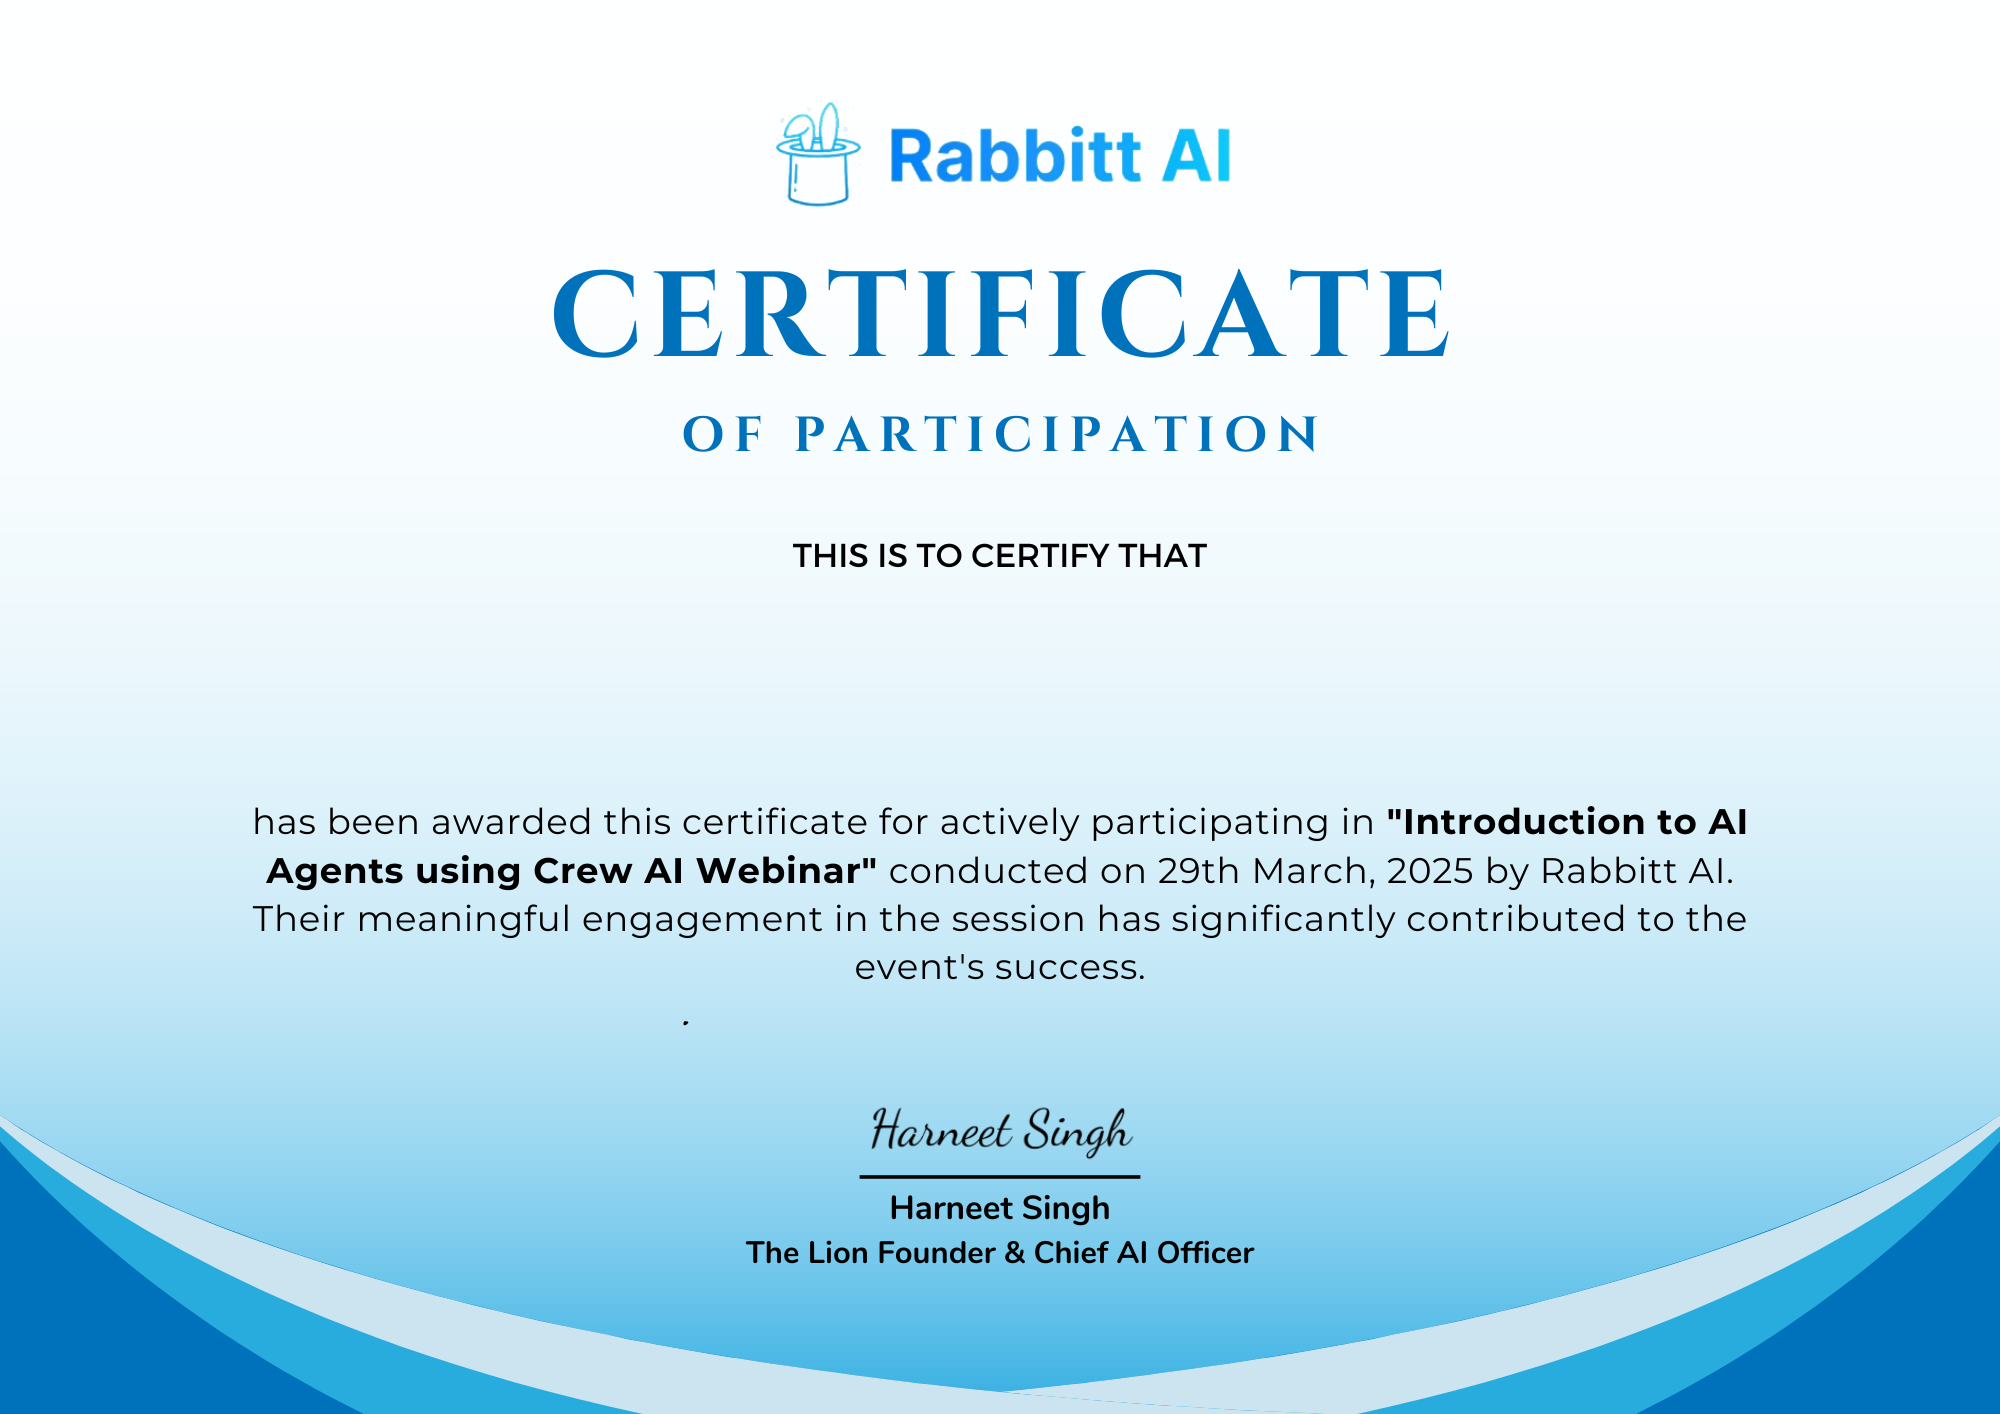
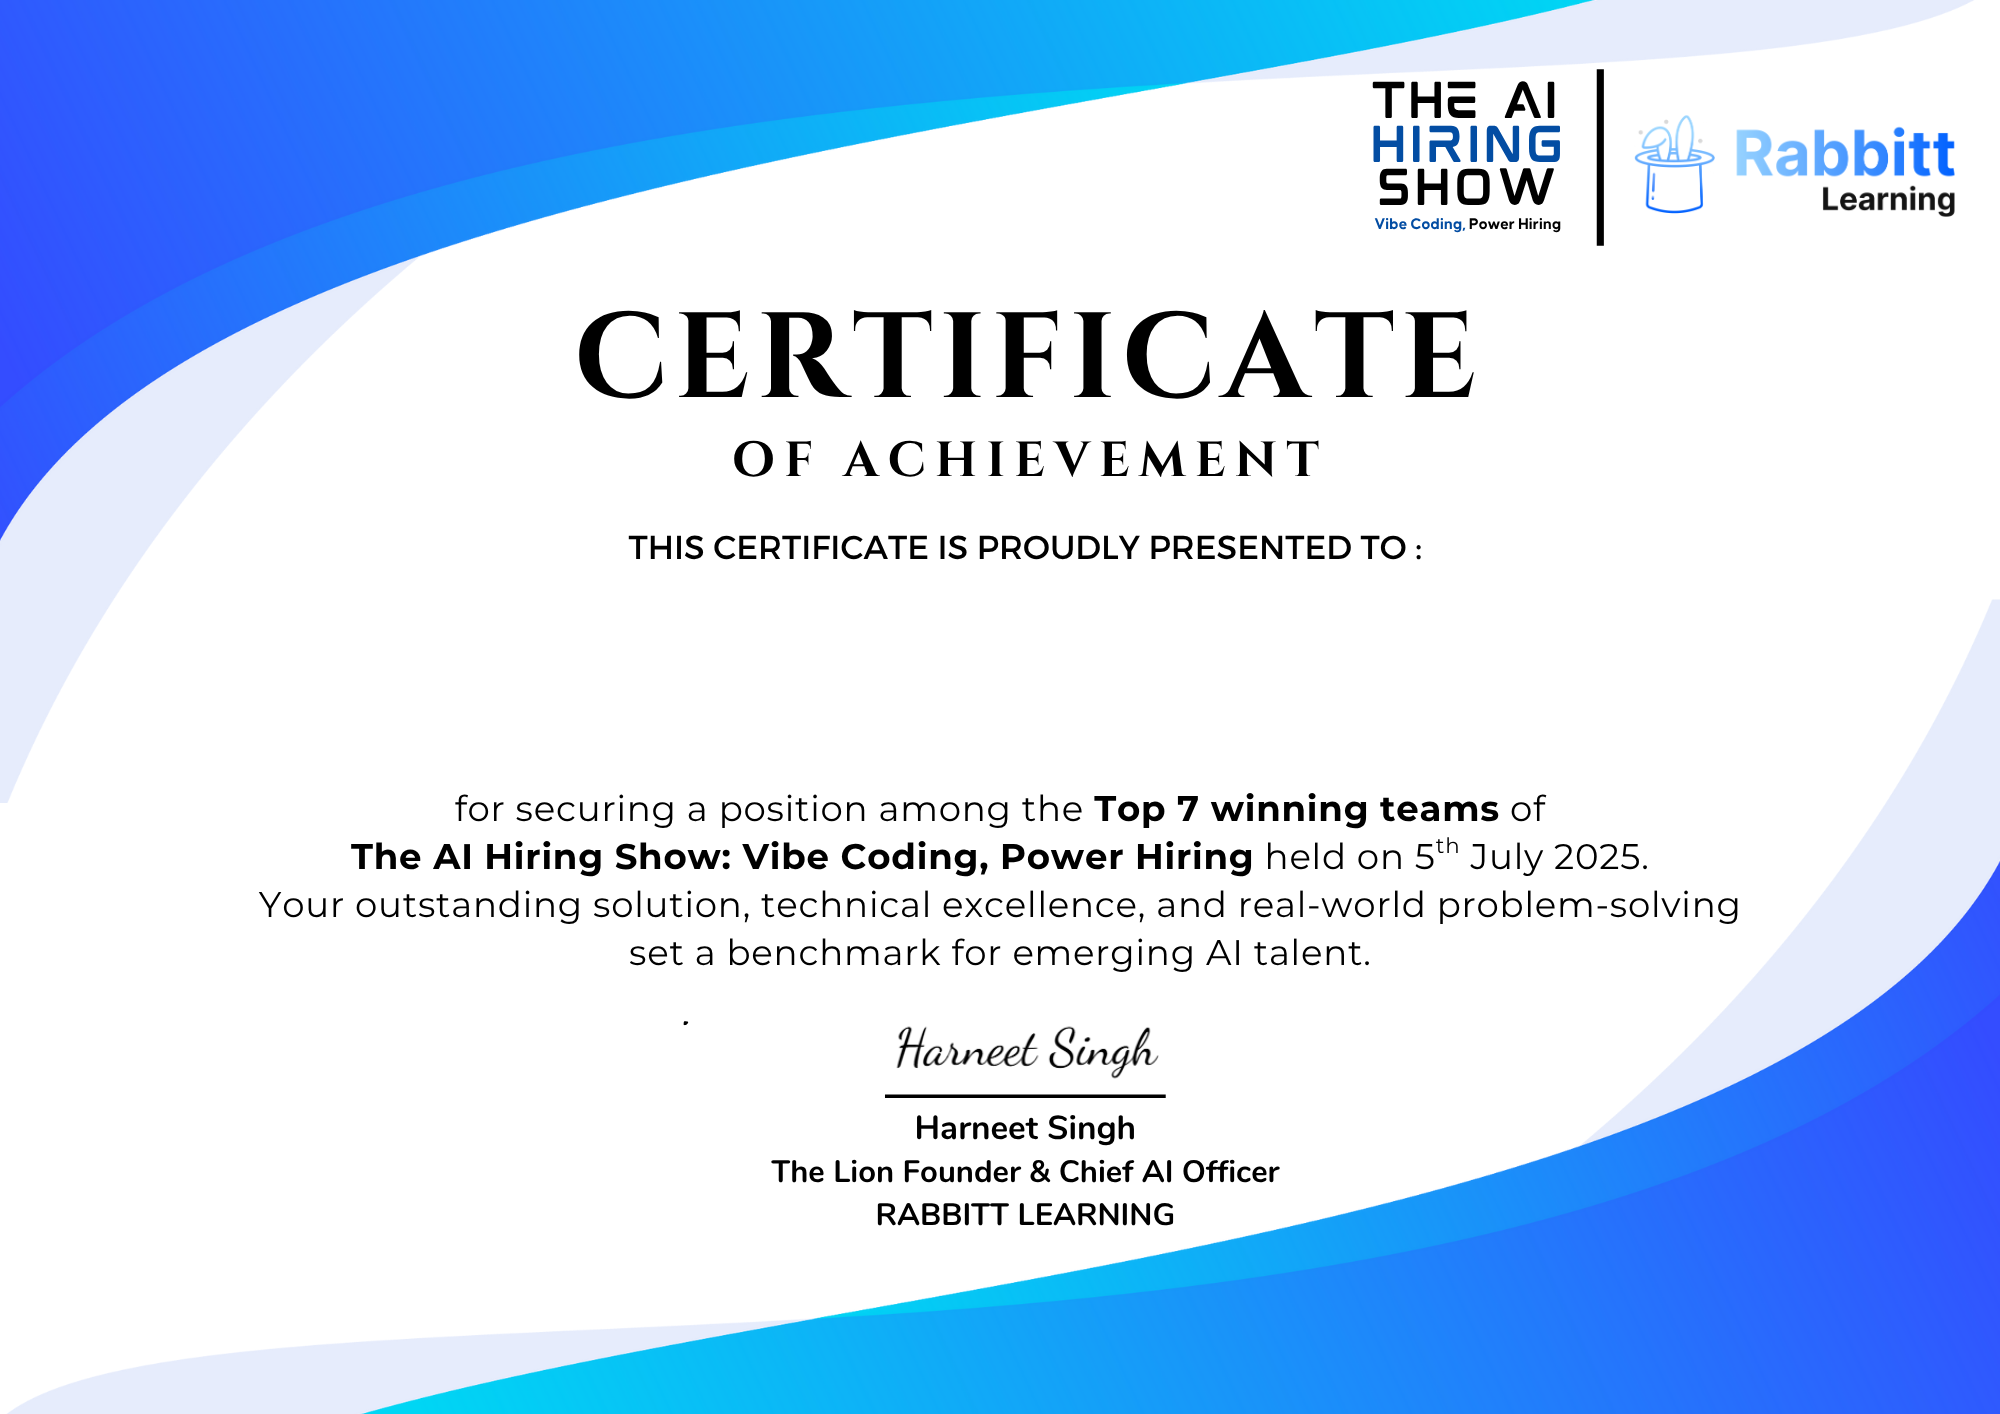
././

diff --git a/src/app/page.js b/src/app/page.js
@@ -6,7 +6,7 @@ import { MoonIcon, SunIcon } from '@heroicons/react/24/outline';
 
 export default function Home() {
   const [name, setName] = useState("");
-  const [testName, setTestName] = useState("");
+  const [email, setEmail] = useState("");
   const [imageUrl, setImageUrl] = useState("");
   const [loading, setLoading] = useState(false);
   const [bulkLoading, setBulkLoading] = useState(false);
@@ -19,8 +19,8 @@ export default function Home() {
     setImageUrl("");
 
     // Validation for missing inputs
-    if (!name || !testName) {
-      toast.error("Both Name and Test Name are required.");
+    if (!name) {
+      toast.error("Name is required.");
       setLoading(false);
       return;
     }
@@ -28,7 +28,7 @@ export default function Home() {
     try {
       const res = await fetch("/api/generate", {
         method: "POST",
-        body: JSON.stringify({ name, testName }),
+        body: JSON.stringify({ name }),
       });
 
       const data = await res.json();
@@ -67,10 +67,10 @@ export default function Home() {
         const newResults = [];
 
         for (const row of results.data) {
-          const { Name, TestName, Email } = row;
+          const { Name, Email } = row;
 
           // Validate each row of CSV
-          if (!Name || !TestName || !Email) {
+          if (!Name || !Email) {
             toast.error("One or more rows are missing required fields.");
             continue;
           }
@@ -81,7 +81,6 @@ export default function Home() {
               headers: { "Content-Type": "application/json" },
               body: JSON.stringify({
                 name: Name.trim(),
-                testName: TestName.trim(),
                 email: Email.trim(),
               }),
             });
@@ -90,7 +89,6 @@ export default function Home() {
             if (data.success) {
               newResults.push({
                 name: Name.trim(),
-                testName: TestName.trim(),
                 email: Email.trim(),
                 url: data.imageUrl,
               });
@@ -120,9 +118,9 @@ export default function Home() {
   }
 
   function downloadCertificatesAsCSV(results) {
-    const header = "Name,TestName,Email,CertificateLink\n";
+    const header = "Name,Email,CertificateLink\n";
     const rows = results
-      .map(({ name, testName, email, url }) => `"${name}","${testName}","${email}","${url}"`)
+      .map(({ name, email, url }) => `"${name}","${email}","${url}"`)
       .join("\n");
 
     try {
@@ -170,11 +168,11 @@ export default function Home() {
             required
           />
           <input
-            placeholder="Test Name"
-            value={testName}
-            onChange={(e) => setTestName(e.target.value)}
+            placeholder="Email (optional for single generation)"
+            value={email}
+            onChange={(e) => setEmail(e.target.value)}
             className="p-4 rounded-lg border border-gray-300 text-black shadow-lg focus:outline-none focus:ring-2 focus:ring-blue-600"
-            required
+            type="email"
           />
           <button
             type="submit"
@@ -202,6 +200,9 @@ export default function Home() {
       {/* Bulk Upload */}
       <section className="max-w-6xl mx-auto mt-20 p-6 bg-gradient-to-r from-blue-50 to-blue-100 dark:bg-gray-800 rounded-2xl shadow-xl transition-all">
         <h2 className="text-xl font-semibold text-center mb-6 text-black">Generate Bulk Certificates</h2>
+        <div className="mb-4 text-sm text-gray-600 dark:text-gray-300">
+          <p>CSV format: <strong>Name, Email</strong></p>
+        </div>
         <input
           type="file"
           accept=".csv"
@@ -232,7 +233,6 @@ export default function Home() {
                 <thead className="bg-gray-200 dark:bg-gray-700 text-gray-700 dark:text-white uppercase text-xs">
                   <tr>
                     <th className="px-4 py-2 border">Name</th>
-                    <th className="px-4 py-2 border">Test</th>
                     <th className="px-4 py-2 border">Email</th>
                     <th className="px-4 py-2 border">Preview</th>
                     <th className="px-4 py-2 border">Download</th>
@@ -242,7 +242,6 @@ export default function Home() {
                   {bulkResults.map((res, idx) => (
                     <tr key={idx} className="border-t">
                       <td className="px-4 py-2 border">{res.name}</td>
-                      <td className="px-4 py-2 border">{res.testName}</td>
                       <td className="px-4 py-2 border">{res.email}</td>
                       <td className="px-4 py-2 border">
                         <a href={res.url} target="_blank" rel="noreferrer">

diff --git a/src/app/api/generate-email/route.js b/src/app/api/generate-email/route.js
@@ -4,24 +4,24 @@ import { generateCertificate } from "@/utils/certificate";
 export async function POST(req) {
   try {
     // Parse the request body
-    const { name, testName, email } = await req.json();
+    const { name, email } = await req.json();
 
     // Validate input
-    if (!name || !testName || !email) {
+    if (!name || !email) {
       console.error("Missing required fields");
-      return Response.json({ success: false, error: "Name, Test Name, and Email are required" }, { status: 400 });
+      return Response.json({ success: false, error: "Name and Email are required" }, { status: 400 });
     }
 
-    // Generate certificate (this could fail if something goes wrong in the certificate generation)
-    let imageUrl;
+    // Generate certificate (this will return both URL and buffer)
+    let certificateData;
     try {
-      imageUrl = await generateCertificate(name, testName);
+      certificateData = await generateCertificate(name);
     } catch (error) {
       console.error("Certificate generation error:", error);
       return Response.json({ success: false, error: "Failed to generate certificate" }, { status: 500 });
     }
 
-    // Create the Nodemailer transport
+    // Create the Nodemailer transport (Fixed: use createTransport, not createTransporter)
     const transporter = nodemailer.createTransport({
       service: "gmail",
       auth: {
@@ -30,18 +30,27 @@ export async function POST(req) {
       },
     });
 
-    // Set up email options
+    // Set up email options with attachment
     const mailOptions = {
-      from: `"Certificate Bot" <${process.env.MAIL_USER}>`,
+      from: `"Rabbitt Learning" <${process.env.MAIL_USER}>`,
       to: email,
-      subject: `Certificate for ${testName}`,
+      subject: `Congratulations on Winning The AI Hiring Show! 🏅`,
       html: `
         <p>Hi ${name},</p>
-        <p>Congratulations on completing <strong>${testName}</strong>!</p>
-        <p>Your certificate is ready:</p>
-        <p><a href="${imageUrl}" target="_blank">Download Certificate</a></p>
-        <p>Thanks,<br />Team</p>
+        <p>Congratulations once again for securing a spot among the <strong>Top 7 winning teams</strong> of <strong>The AI Hiring Show: Vibe Coding, Power Hiring</strong> held on 5th July 2025! 🥳</p>
+        <p>We're proud to share your Winner's Certificate, acknowledging your outstanding solution, technical excellence, and real-world problem-solving skills.</p>
+        <p>🔗 <strong>Download your certificate here:</strong> <a href="${certificateData.imageUrl}" target="_blank">${certificateData.imageUrl}</a></p>
+        <p>Your performance set a high standard, and we can't wait to see where you go next.</p>
+        <p>Keep building, keep leading!</p>
+        <p>Team Rabbitt Learning</p>
       `,
+      attachments: [
+        {
+          filename: `${name}_Winner_Certificate.png`,
+          content: certificateData.buffer,
+          contentType: 'image/png'
+        }
+      ]
     };
 
     // Send the email
@@ -53,7 +62,7 @@ export async function POST(req) {
     }
 
     // Return success response
-    return Response.json({ success: true, imageUrl });
+    return Response.json({ success: true, imageUrl: certificateData.imageUrl });
     
   } catch (error) {
     // Catch any unexpected errors and log them

diff --git a/src/utils/certificate.js b/src/utils/certificate.js
@@ -11,48 +11,69 @@ const s3 = new AWS.S3({
 
 try {
   registerFont(path.join(process.cwd(), "public/assets/ArchivoBlack-Regular.ttf"), {
-    family: "Archivo Black",
+    family: "ArchivoBlack",
   });
 } catch (e) {
   console.error("Font registration failed", e);
 }
 
-export async function generateCertificate(name, testName) {
-  const width = 800;
-  const height = 600;
+export async function generateCertificate(name) {
+  // Use higher resolution for better quality
+  const width = 1600;
+  const height = 1200;
   const canvas = createCanvas(width, height);
   const ctx = canvas.getContext("2d");
+
+  // Enable anti-aliasing and better text rendering
+  ctx.antialias = 'subpixel';
+  ctx.textRenderingOptimization = 'optimizeQuality';
 
   const certificateId = uuidv4();
 
   try {
-    const image = await loadImage("https://i.ibb.co/j9xDtFq1/Certificate.png");
+    // Load image from local assets folder
+    const imagePath = path.join(process.cwd(), "public/assets/certificate.png");
+    const image = await loadImage(imagePath);
     ctx.drawImage(image, 0, 0, width, height);
 
-    ctx.font = "40px Archivo Black";
-    ctx.fillStyle = "#000";
+    // Scale font size proportionally for higher resolution
+    ctx.font = "bold 80px ArchivoBlack, Arial, sans-serif";
+    ctx.fillStyle = "#0072BC";
     ctx.textAlign = "center";
-    ctx.fillText(name, width / 2, height - height / 2.5 - 50);
+    ctx.textBaseline = "middle";
     
-    ctx.font = "30px Arial";
-    ctx.fillText(testName, width / 2, height - height / 2.7 + 80);
+    // Position the name precisely in the center
+    const nameY = height * 0.48;
+    ctx.fillText(name, width / 2, nameY);
     
-    ctx.font = "12px Arial";
-    ctx.fillText(`ID: ${certificateId}`, width - 205, height - 50);
-    
+    // Scale font size for certificate ID
+    ctx.font = "24px Arial";
+    ctx.fillStyle = "#000";
+    ctx.textAlign = "right";
+    ctx.textBaseline = "bottom";
+    ctx.fillText(`ID: ${certificateId}`, width - 50, height - 30);
 
-    const buffer = canvas.toBuffer("image/png");
+    // Use higher quality PNG settings
+    const buffer = canvas.toBuffer("image/png", { 
+      compressionLevel: 3,
+      filters: canvas.PNG_FILTER_NONE 
+    });
 
     const params = {
       Bucket: "tcx-certificate",
-      Key: `certificate_${name}_${testName}.png`,
+      Key: `certificate_${name}_${Date.now()}.png`,
       Body: buffer,
       ContentType: "image/png",
       ACL: "public-read",
     };
 
     const uploadResult = await s3.upload(params).promise();
-    return uploadResult.Location;
+    
+    // Return both the URL and buffer for email attachment
+    return {
+      imageUrl: uploadResult.Location,
+      buffer: buffer
+    };
   } catch (err) {
     console.error(err);
     throw new Error("Certificate generation failed");
